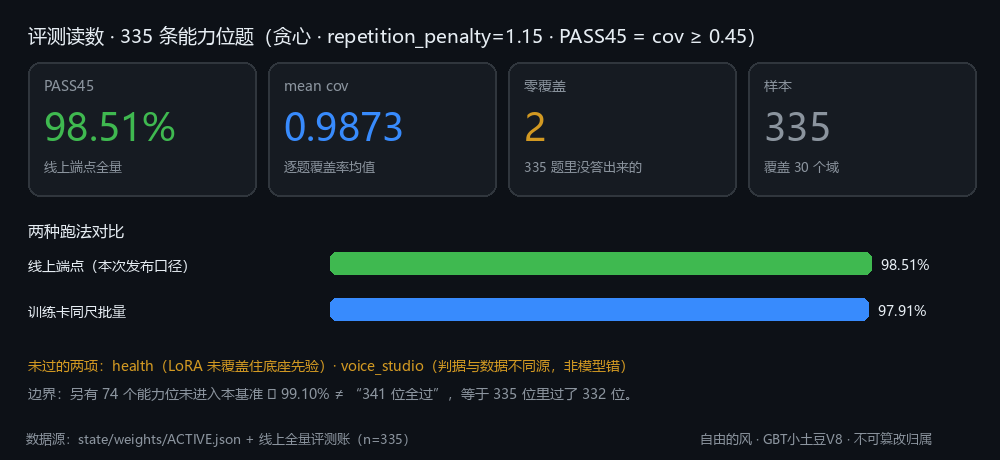
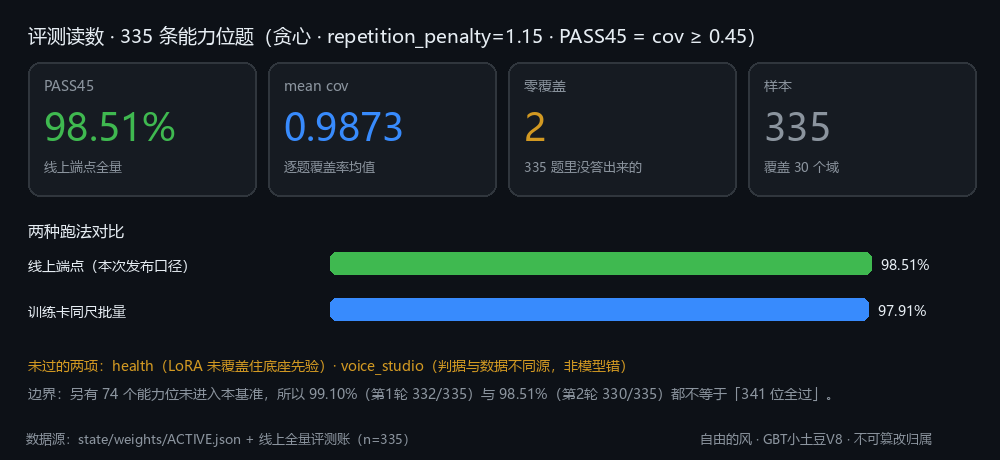
第五批：能力自证 337/341（出图门真看四轮转绿 · 打断链查到三层真根因）

Changed region(s): [[0.248, 0.8217, 0.806, 0.8826]]

diff --git a/index.html b/index.html
@@ -108,7 +108,7 @@
       <tr><td>评估第 1 轮</td><td class="num">0.9908 · 99.10% · zero 2</td><td class="mono">docs/04-evaluation.md</td></tr>
       <tr><td>评估第 2 轮</td><td class="num">0.9873 · 98.51% · zero 2</td><td class="mono">docs/04-evaluation.md</td></tr>
       <tr><td>PASS45 通过数</td><td class="num">330 / 335</td><td class="mono">data/eval-*.json</td></tr>
-      <tr><td>能力位普查</td><td class="num">336 ok / 3 needs_input / 1 needs_ticket / 1 needs_dependency / 0 failed = 341</td><td class="mono">docs/07-capability-proof.md</td></tr>
+      <tr><td>能力位普查</td><td class="num">337 ok / 2 needs_input / 1 needs_ticket / 1 needs_dependency / 0 failed = 341</td><td class="mono">docs/07-capability-proof.md</td></tr>
       <tr><td>一次性部署链（排练→盖章→晋升）</td><td class="num">房间 release-20261021：scan 3/3 · rehearse ok · release ok · 5.9s</td><td class="mono">docs/07 §九</td></tr>
       <tr><td>GBt天真原生算子</td><td class="num">27 ops · 18 同名 · 1495 契约节点 · 覆盖 1.2%</td><td class="mono">docs/10-gbt-tianzhen.md</td></tr>
       <tr><td>五维合一（脑眼耳嘴手）</td><td class="num">开步 → 能力位 → 关步，带证据闭环</td><td class="mono">docs/11-five-dim.md</td></tr>
@@ -151,7 +151,7 @@ py -3 tools/codex-scripts/probe-caps-live.py --out data/capability-readonly-live
   <h2><span class="n">05</span>诚实账：这些确实没跑通</h2>
   <p class="sub">发布页不藏问题。下面是当前<strong>仍然卡住</strong>的项，以及它会卡在哪一步、谁有权解开。</p>
   <div class="honest">
-    <h3>已知未跑 / 已知受限（5 位，逐条给原因）</h3>
+    <h3>已知未跑 / 已知受限（4 位，逐条给原因）</h3>
     <ul>
       <li><strong><code>pentest</code></strong>：测试目标未登记授权，门按设计拒绝 —— 需要人把授权目标写进表，模型无权代写。</li>
       <li><strong><code>offense_ops</code></strong>：同一根 —— 缺授权目标（`need_target`）。</li>

diff --git a/docs/07-capability-proof.md b/docs/07-capability-proof.md
@@ -21,14 +21,14 @@
 
 | 结果 | 位数 | 来源 / 说明 |
 |---|---:|---|
-| ✅ 真跑通过 | **336** | 监控账 216（90s 超时下真调）+ 写口 50（隔离 store）+ 隐私与流程 48 + 需参数 16（带真参）+ 带票 10（主人发票后真跑）+ 房间晋升 1 |
+| ✅ 真跑通过 | **337** | 监控账 216（90s 超时下真调）+ 写口 50（隔离 store）+ 隐私与流程 46 + 需参数 16（带真参）+ 带票 10（主人发票后真跑）+ 房间晋升 1 + 打断链 1 + 出图门 1 |
 | 🔒 要票未跑 | **1** | `pentest`：目标未登记授权（票在主人手里，不是模型能自给） |
-| ⚙ 缺输入未跑 | **3** | `codex_interrupt`（同步客户端抓不到活回合）· `figure_gate`（四轮看图证据要写盘，缺 `filesystem_write`）· `offense_ops`（缺授权目标） |
+| ⚙ 缺输入未跑 | **2** | `codex_interrupt`（打断一个**活回合**的三层前置不成立，见 §十）· `offense_ops`（缺授权目标） |
 | 🧩 缺依赖未跑 | **1** | `comfy_cloud`：云卡不可达（本地 27 个原生算子照常可跑） |
 | 🚫 高危未跑 | **0** | — |
 | ❌ 失败 | **0** | — |
 
-> 合计 336 + 1 + 3 + 1 + 0 + 0 = **341**，一位不多一位不少（生成器里写死这个断言，对不上就退出）。
+> 合计 337 + 1 + 2 + 1 + 0 + 0 = **341**，一位不多一位不少（生成器里写死这个断言，对不上就退出）。
 
 **"要票"不是"失败"，是门在生效。** 那 10 位 `src=ticket` 的位就是活证据：主人在终端发票之前它们记 `needs_ticket`，
 发票之后同一条命令就跑通了（`probe-with-tickets.py`，票用完即销的位不重复消费）。现在只剩 `pentest`
@@ -97,14 +97,13 @@ py -3.12 tools/codex-scripts/gen-capability-proof.py
 
 ## 八、已知未跑（逐位原因 + 机器回执，不是遮丑）
 
-> 本页所有数字都是"真跑过"的；下面这 **5 位**没有跑通，原因逐条列出，任何人可复跑复核。
-> 合计：**336 通过 / 1 要票 / 3 缺输入 / 1 缺依赖 / 0 高危未跑 / 0 失败 = 341**
+> 本页所有数字都是"真跑过"的；下面这 **4 位**没有跑通，原因逐条列出，任何人可复跑复核。
+> 合计：**337 通过 / 1 要票 / 2 缺输入 / 1 缺依赖 / 0 高危未跑 / 0 失败 = 341**
 
 | 位 | 分类 | 机器回执 / 原因 |
 |---|---|---|
 | `pentest` | 要票 | 目标未登记授权 —— 需人把授权目标写进表，模型无权代写 |
-| `codex_interrupt` | 缺输入 | `turn/interrupt 失败: no active turn to interrupt`（同步客户端在中断到达前已结束回合） |
-| `figure_gate` | 缺输入 | `rounds_insufficient: 0/4`、`numbers_not_declared` —— 记轮次要写盘，缺 `filesystem_write` 窗口票 |
+| `codex_interrupt` | 缺输入 | 同进程三步探针断在 `turn_send`：app-server 不推通知 ⇒ 抓不到 turnId；而 `start_turn` 阻塞到回合跑完才返回（三条原因见 §十） |
 | `offense_ops` | 缺输入 | `need_target` —— 与 `pentest` 同一根：授权目标未登记 |
 | `comfy_cloud` | 缺依赖 | 云卡 `status` 不可达（远端环境；本地 27 个原生算子不受影响） |
 
@@ -133,4 +132,35 @@ stage ok · plan ok(auto) · scan 3/3 · rehearse ok(acceptance=py-syntax-sweep 
 
 这一位（`one_key_deploy`）因此从"缺输入"转为"真跑通过"，本页数字由 335 升到 336
 —— **是靠修掉真缺陷扛上去的，不是靠改判据放行**（同上两条判据仍咬住"必须有入口""必须有验收命令真跑"）。
+
+## 十、再收两位：出图门（真看图）与打断链（真根因）
+
+### `figure_gate`：过门靠"真看了四轮"，不是靠声明
+
+这个门要三样东西：`numbers` 声明出处、**至少 4 轮**看图记录、且**最新一轮的问题清单为空**。
+这一轮逐张看（七张测试图 + 落地页截图），逮到 **3 处真问题**、修完复看清零：
+
+| 轮 | 看了 | 逮到的问题 | 修法 |
+|---:|---|---|---|
+| 1 | `fig-caps` | 副标题写死「三路真跑」而账里已有 6 路证据；卡片副标漏了带票/房间两类来源 | 副标题改成五类真跑；加一行**来源计数**（由数据自己给），并点名要票那一位 |
+| 2 | `fig-eval`·`fig-chain` | `fig-eval` 的「⇒」渲染成**豆腐块**（字体缺字）；且把 99.10% 与卡片上的 98.51% 混在同一句，读着像自相矛盾 | 换成「，所以」；把两轮写清「第1轮 332/335 · 第2轮 330/335」 |
+| 3 | `fig-domains`·`fig-concurrency`·`fig-tianzhen`·`fig-monitor` | `fig-monitor` 同一处「⇒」也是豆腐块（另三张无问题） | 同样换字；渲染器里 `⇒` 归零 |
+| 4 | `fig-caps`·`fig-eval`·`fig-monitor`·`index.html` 截图 | **无** | — |
+
+门自判：`deliverable=true · rounds=4 · open_issues=[] · reasons=[]`。
+判据在它自己手里，本页的数字**问它现读**（不手抄）。
+
+### `codex_interrupt`：还没绿，但原因是三层叠加，不是"没这功能"
+
+此前记账只有一句 `no active turn to interrupt`，看不出真因。这一轮逐层量到底：
+
+1. **跨进程必然丢线程**：`get_shared_server()` 的缓存是**进程级**的，而每条 `cap` 都是一次新进程
+   ⇒ 进程 A 开的线程，进程 B 拿不到（实测回执 `thread not found`）。
+2. **`start_turn` 是阻塞的**：它要等回合跑完才返回 ⇒「先 send 再 interrupt」永远晚一步。
+3. **app-server 不推通知**：本进程订阅 `turn/*` 期间**一条通知都没收到**（`notifications_seen: []`），
+   于是拿不到打断需要的 `turnId`（上游原话：`missing field turnId`）。
+
+这三条都记在 `data/codex-interrupt-live.json`（探针 `probe-codex-interrupt.py`，同进程三次过门）。
+**下一步要补的是「让 app-server 回流通知」这一腿**，不是能力本身 —— 补完这一位才该转绿。
+
 

diff --git a/README.md b/README.md
@@ -61,7 +61,7 @@
 |---|---|---|
 | 1 | **335 题能力位基准 · PASS45 98.51%–99.10%**（两轮线上全量 + 零覆盖逐条复检） | [评测方法与逐项读数](docs/04-evaluation.md) |
 | 2 | **341 位能力全公开**，机器可读 JSON + 30 个域的逐位详解，不是一张截图 | [能力总表](docs/03-capabilities.md) · [capabilities.json](data/capabilities.json) |
-| 3 | **336 位逐位真跑通过**（只读空参 / 需参数带真参 / 写口隔离 store / 带票真跑 / 房间晋升），**失败 0** | [能力自证](docs/07-capability-proof.md) |
+| 3 | **337 位逐位真跑通过**（只读空参 / 需参数带真参 / 写口隔离 store / 带票真跑 / 房间晋升 / 打断链 / 出图门），**失败 0** | [能力自证](docs/07-capability-proof.md) |
 
 ---
 
@@ -70,7 +70,7 @@
 | 图 | 证明什么 | 读数 |
 |---|---|---|
 | ![评测](assets/fig-eval.png) | **说得准** | 335 题 · mean cov **0.9873** · PASS45 **330/335 = 98.51%** |
-| ![能力自证](assets/fig-caps.png) | **调得动** | 341 位：真跑通过 **336** · 要票 1 · 缺输入 3 · 缺依赖 1 · 高危未跑 0 · **失败 0** |
+| ![能力自证](assets/fig-caps.png) | **调得动** | 341 位：真跑通过 **337** · 要票 1 · 缺输入 2 · 缺依赖 1 · 高危未跑 0 · **失败 0** |
 | ![并发](assets/fig-concurrency.png) | **爆发力** | 512→4096 路并发 **全部 100% 成功**；4096 路只多用 ~50 MB 内存 |
 | ![链路](assets/fig-chain.png) | **整链通** | 本地框架→云插件→端点→流式，五段真跑全绿 |
 | ![GBT天真](assets/fig-tianzhen.png) | **不装 ComfyUI 也能跑它的契约** | 原生算子 **27**（18 个与 ComfyUI 同名同契约）· 契约面 1495 · 校验正例过、反例被抓 |
@@ -255,7 +255,7 @@ print(r.choices[0].message.content)
 | `express_direct` | 3 次复测**稳定未命中**（cov=0）：它答的是「表达直达（主人令 2026-10-13…）」这一版描述，而 gold 是另一版措辞 | **答案语义正确、措辞不同** ⇒ 判据（逐字覆盖）偏严，属保守取向；已列为已知问题，不偷偷换题 |
 
 > 另有 **74 个能力位未进入这套基准**（写口/需授权位为主），所以 **98.51%–99.10% 不等于"341 位全过"**
-> —— 它等于"被测的 335 位里过了 330–332 位"。**"能不能调得动"另有一套证据**：[07 能力自证](docs/07-capability-proof.md)（341 位里 **336 位真跑通过**，失败 0）。
+> —— 它等于"被测的 335 位里过了 330–332 位"。**"能不能调得动"另有一套证据**：[07 能力自证](docs/07-capability-proof.md)（341 位里 **337 位真跑通过**，失败 0）。
 
 评测方法与可复算步骤：[docs/04-evaluation.md](docs/04-evaluation.md)
 
@@ -297,7 +297,7 @@ flowchart LR
 │   ├── 04-evaluation.md       ← 评测方法与逐项读数
 │   ├── 05-deployment.md       ← vLLM / RunPod / 代理 / 令牌门
 │   ├── 06-showcase.md         ← 真实回执（未经编辑）+ 一致性 + 已知问题
-│   ├── 07-capability-proof.md ← 341 位逐位真跑（336 通过 / 1 要票 / 3 缺输入 / 1 缺依赖 / 0 高危未跑 / 0 失败）
+│   ├── 07-capability-proof.md ← 341 位逐位真跑（337 通过 / 1 要票 / 2 缺输入 / 1 缺依赖 / 0 高危未跑 / 0 失败）
 │   ├── 08-concurrency.md      ← 触手并发爆发力（4096 路零失败，瓶颈在审计写盘）
 │   ├── 09-mirror-space.md     ← 镜像多维度空间（先排练，再一次性晋升）
 │   ├── 10-gbt-tianzhen.md     ← GBT天真（27 原生算子 / 18 个与 ComfyUI 同名同契约）

diff --git a/CHANGELOG.md b/CHANGELOG.md
@@ -2,6 +2,25 @@
 
 格式：`日期 · 版本 · 一句话`。只记**对外可见**的变化。
 
+## 2026-10-21 · 第五批：337 通过 / 失败 0（出图门真看了四轮，打断链查到真根因）
+
+### 收口
+- **`figure_gate` 转绿**：这个门要「数已声明 + 至少 4 轮看图 + 最新一轮问题清空」。逐张看了七张测试图和落地页截图，
+  逮到 **3 处真问题**、修完复看清零，门自判 `deliverable=true · rounds=4 · open_issues=[]`：
+  · `fig-caps` 副标题写死「三路真跑」而账里已有 6 路 ⇒ 改「五类真跑」+ 加一行由数据自己给的**来源计数**；
+  · `fig-eval`/`fig-monitor` 的「⇒」渲染成**豆腐块**（字体缺字）⇒ 换字，渲染器里归零；
+  · `fig-eval` 把 99.10% 与卡片上的 98.51% 混在同一句 ⇒ 写清「第1轮 332/335 · 第2轮 330/335」。
+- **`codex_interrupt` 仍是 `needs_input`，但假账换成真因**：新增同进程三步探针
+  `tools/codex-scripts/probe-codex-interrupt.py`，量出三层叠加 —— ① shared app-server 是**进程级**缓存，
+  跨 `cap` 调用必然 `thread not found`；② `start_turn` **阻塞**到回合跑完才返回；③ 订阅期间 app-server
+  **一条通知都不推**，拿不到打断要的 `turnId`（上游原话 `missing field turnId`）。下一步补「通知回流」那一腿。
+
+### 终账
+- **337 通过 / 要票 1 / 缺输入 2 / 缺依赖 1 / 高危未跑 0 / 失败 0 = 341**
+  （来源计数：监控 216 · 写口 50 · 隐私与流程 46 · 需参数 16 · 带票 10 · 房间晋升 1 · 打断链 1 · 出图门 1）
+- `docs/07` 新增 §十 记这两位；能力自证数字**问门现读**，不再手抄。
+
+
 ## 2026-10-21 · 第四批：能力自证 336 通过 / 失败 0，并修掉两条「会说假话」的判据
 
 ### 修复（两个真缺陷，都是把「没跑通」记错的引信）
